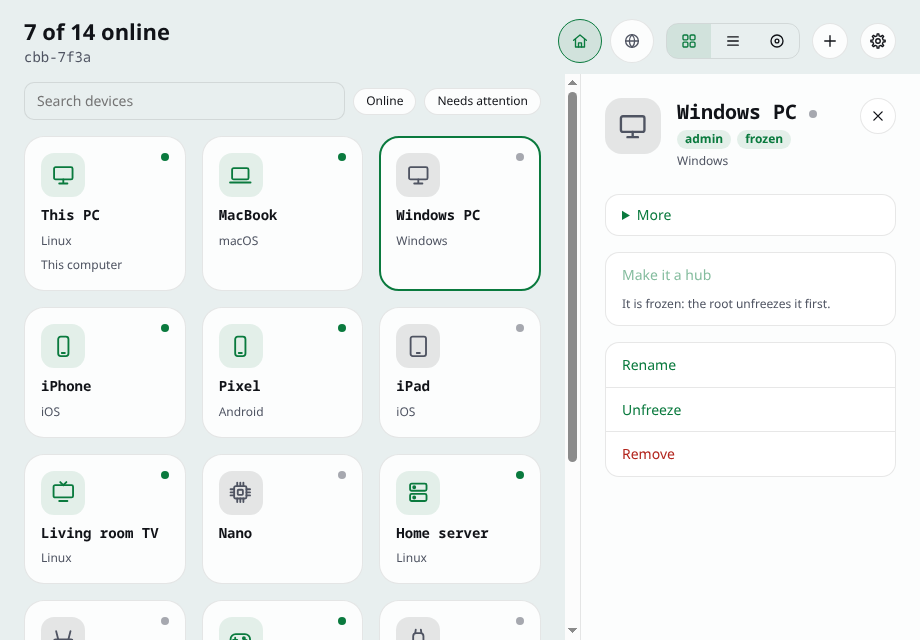
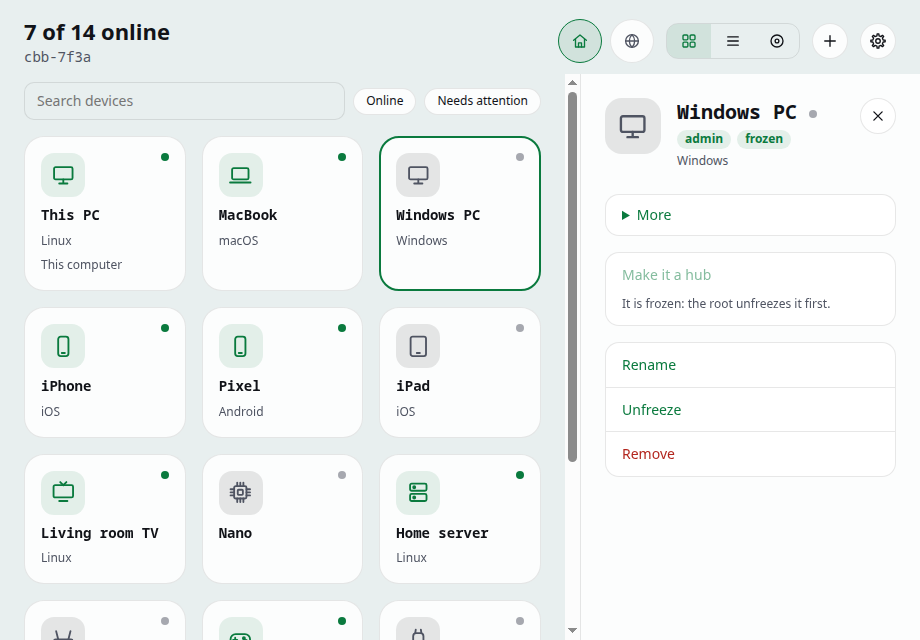
Take the tray's screenshots from CI and name U14-U18 in the functions list
The reference pictures drawn in another build of Chrome differed from
CI's in the smoothing of text (0.3-0.6% of the pixels, at the glyphs'
edges only); the references are now CI's own, and the docs say where to
take them from. The catalogue's new cases are named by the apps'
language and accessibility functions, as TestCatalogue requires.

Claude-Session: https://claude.ai/code/session_01SiiiEd8dG121gNqXRanA5T

diff --git a/apps/desktop/screenshot_test.go b/apps/desktop/screenshot_test.go
@@ -33,6 +33,10 @@ import (
 //
 //	CBB_UPDATE_SCREENSHOTS=1 go test -run 'TestWindow/screenshots' .
 //
+// The pictures committed are CI's (ubuntu-latest's Chrome): those drawn
+// elsewhere are for looking at, and the ones to commit come from the
+// tray-screenshots artifact of the failed job (docs/testing.md).
+//
 // A failed comparison leaves the new picture and a picture of the
 // difference in $CBB_SCREENSHOT_OUT (by default a directory the test names).
 

diff --git a/docs/testbench-functions.md b/docs/testbench-functions.md
@@ -485,14 +485,14 @@ line here with every new function, and a case for it in the catalogue.
 | A.12 | Notifications of the group's events | A6 |
 | A.13 | The Dynamic Island | A7 |
 | A.14 | Collections and the order of tiles | A8 |
-| A.15 | Languages and right-to-left | A9 |
-| A.16 | Accessibility labels | A9 |
+| A.15 | Languages and right-to-left | A9, U18 |
+| A.16 | Accessibility: names, contrast, large text, the keyboard | A9, U14, U15, U16, U17 |
 | A.17 | The F-Droid flavour | A10 |
 | A.18 | Background app refresh | A11 |
 | A.19 | App Intents, widgets, the Control Center control | A12 |
 | A.20 | The share extension | A13 |
 | A.21 | First launch and the Start screen | A14 |
-| A.22 | Themes and layouts | A15 |
+| A.22 | Themes and layouts | A15, U15, U18 |
 | A.23 | Plain-language paths | A16 |
 | A.24 | Add a device: camera and six digits | A1, G3 |
 | A.25 | The Aurora OS app: join by QR, sync in front, leave | A17 |

diff --git a/docs/testing.md b/docs/testing.md
@@ -128,6 +128,10 @@ cd apps/desktop && CBB_UPDATE_SCREENSHOTS=1 go test -run 'TestWindow/screenshots
 cd apps/android && ./gradlew :app:recordRoborazziFullDebug
 ```
 
+The tray's references are CI's pictures: another build of Chrome smooths text differently in
+more than 0.3% of the pixels. When a run elsewhere draws them, compare them by eye and take
+the ones to commit from the `tray-screenshots` artifact of the failed CI job.
+
 ## Coverage
 
 CI measures how much of the code the tests run, part by part, and its `coverage` job prints
